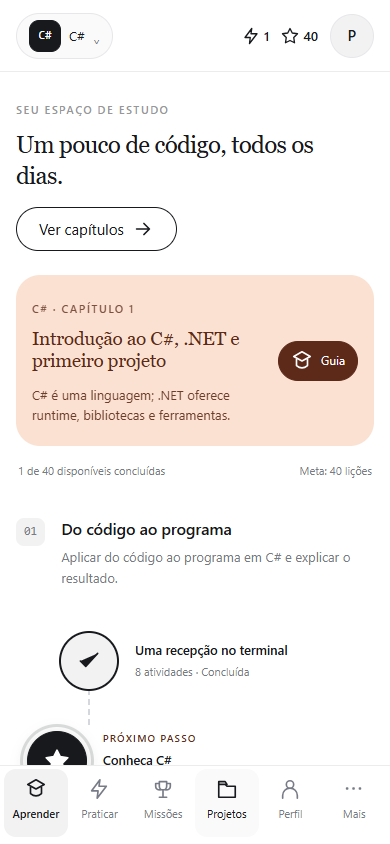
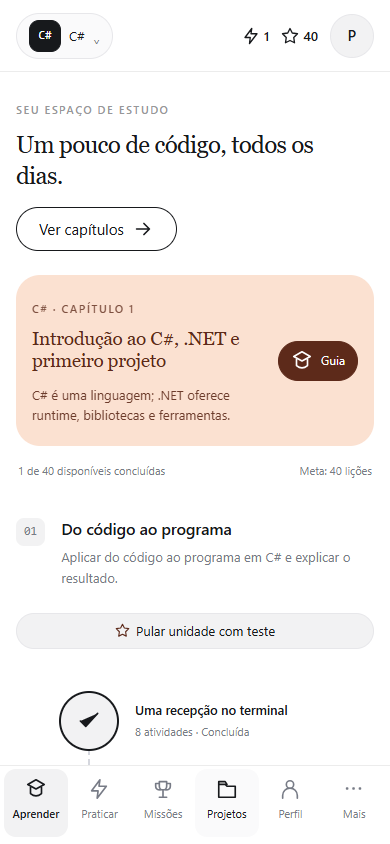
feat(learning): teste de nivelamento para pular unidades e avancar na trilha

Changed region(s): [[0.0308, 0.7393, 0.7385, 0.9242]]

diff --git a/app.js b/app.js
@@ -40,7 +40,7 @@ function progress(value,max,label){return `<div class="progress-track" role="pro
 function header(){const l=language();$('#course-switch').innerHTML=tag(l)+esc(l.name)+' <span class="muted">⌄</span>';$('#stats').innerHTML=`<span class="streak">${icon('practice')} ${streak()}<small>dias</small></span><span class="xp">${icon('star')} ${state.completed.length*20}<small>XP</small></span>`;$('#account-button').textContent=(user?.name||'Você').slice(0,1).toUpperCase();storageLabel();}
 function page(content){$('#main').innerHTML=`<div class="page">${content}</div>`;}
 function render(){if(!ready)return;const route=location.hash.slice(1)||'aprender';const isLesson=route.startsWith('aula/');document.body.classList.toggle('in-lesson',isLesson);document.querySelectorAll('[data-nav]').forEach(el=>{const active=el.dataset.nav===route||el.dataset.nav==='aprender'&&(isLesson||route==='capitulos');el.classList.toggle('active',active);if(active)el.setAttribute('aria-current','page');else el.removeAttribute('aria-current');});header();if(isLesson){openLesson(route);return;}session=null;({aprender:renderLearn,capitulos:renderChapters,linguagens:renderLanguages,praticar:renderPractice,missoes:renderMissions,projetos:renderProjects,perfil:renderProfile,mais:renderMore}[route]||renderLearn)();$('#main').removeAttribute('aria-busy');}
-function renderLearn(){const c=chapter(),completed=c.lessons.filter(l=>done(l.id)).length,next=c.lessons.find(l=>!done(l.id)&&unlocked(l));page(`<div class="page-heading"><div><span class="eyebrow">SEU ESPAÇO DE ESTUDO</span><h1>Um pouco de código, todos os dias.</h1></div><a class="button subtle" href="#capitulos">Ver capítulos ${icon('arrow')}</a></div><div class="learning-layout"><section class="trail"><div class="chapter-banner"><div><span class="eyebrow">${esc(language().name)} · CAPÍTULO ${chapters().indexOf(c)+1}</span><h2>${esc(c.title)}</h2><p>${esc(c.description)}</p></div><button class="guide-button" data-guide aria-label="Abrir guia deste capítulo">${icon('learn')} Guia</button></div><div class="trail-meta"><span>${completed} de ${c.lessons.length} disponíveis concluídas</span><span>Meta: 40 lições</span></div>${c.units.map((u,i)=>`<section class="unit" aria-labelledby="unit-${i}"><div class="unit-heading"><span>0${i+1}</span><div><h3 id="unit-${i}">${esc(u.title)}</h3><p>${esc(u.objective)}</p></div></div>${u.lessons.length?`<div class="lesson-path">${u.lessons.map((l,j)=>{const available=unlocked(l),current=next?.id===l.id;return `<div class="lesson-node-row offset-${j%4}">${available?`<a href="${lessonURL(l.id)}" class="lesson-node ${done(l.id)?'done':current?'current':''}" aria-label="${esc(l.title)} — ${done(l.id)?'Revisar':'Começar'}">${icon(done(l.id)?'check':'star')}</a>`:`<button class="lesson-node" disabled aria-label="${esc(l.title)}. Conclua a lição anterior.">${icon('lock')}</button>`}<div>${current?'<span class="now">PRÓXIMO PASSO</span>':''}<h4>${esc(l.title)}</h4><p>${l.questions.length} atividades · ${done(l.id)?'Concluída':'20 XP'}</p></div></div>`;}).join('')}</div>`:'<p class="draft-unit">Conteúdo em preparação · 5 lições previstas</p>'}</section>`).join('')}</section>${rail()}</div>`);}
+function renderLearn(){const c=chapter(),completed=c.lessons.filter(l=>done(l.id)).length,next=c.lessons.find(l=>!done(l.id)&&unlocked(l));page(`<div class="page-heading"><div><span class="eyebrow">SEU ESPAÇO DE ESTUDO</span><h1>Um pouco de código, todos os dias.</h1></div><a class="button subtle" href="#capitulos">Ver capítulos ${icon('arrow')}</a></div><div class="learning-layout"><section class="trail"><div class="chapter-banner"><div><span class="eyebrow">${esc(language().name)} · CAPÍTULO ${chapters().indexOf(c)+1}</span><h2>${esc(c.title)}</h2><p>${esc(c.description)}</p></div><button class="guide-button" data-guide aria-label="Abrir guia deste capítulo">${icon('learn')} Guia</button></div><div class="trail-meta"><span>${completed} de ${c.lessons.length} disponíveis concluídas</span><span>Meta: 40 lições</span></div>${c.units.map((u,i)=>{const unitDone=u.lessons.length&&u.lessons.every(l=>done(l.id));return `<section class="unit" aria-labelledby="unit-${i}"><div class="unit-heading"><span>0${i+1}</span><div><h3 id="unit-${i}">${esc(u.title)}</h3><p>${esc(u.objective)}</p></div>${!unitDone&&u.lessons.length?`<button class="unit-skip-btn" data-skip-unit="${i}">${icon('star')} ${i===0?'Pular unidade com teste':'Pular até aqui com teste'}</button>`:''}</div>${u.lessons.length?`<div class="lesson-path">${u.lessons.map((l,j)=>{const available=unlocked(l),current=next?.id===l.id;return `<div class="lesson-node-row offset-${j%4}">${available?`<a href="${lessonURL(l.id)}" class="lesson-node ${done(l.id)?'done':current?'current':''}" aria-label="${esc(l.title)} — ${done(l.id)?'Revisar':'Começar'}">${icon(done(l.id)?'check':'star')}</a>`:`<button class="lesson-node" disabled aria-label="${esc(l.title)}. Conclua a lição anterior.">${icon('lock')}</button>`}<div>${current?'<span class="now">PRÓXIMO PASSO</span>':''}<h4>${esc(l.title)}</h4><p>${l.questions.length} atividades · ${done(l.id)?'Concluída':'20 XP'}</p></div></div>`;}).join('')}</div>`:'<p class="draft-unit">Conteúdo em preparação · 5 lições previstas</p>'}</section>`;}).join('')}</section>${rail()}</div>`);}
 function rail(){const seconds=state.studySeconds[dateKey()]||0;return `<aside class="right-rail"><div class="bit-note">${bit('encourage')}<p>Leia o exemplo, teste sua ideia e veja o que acontece.</p><span>BIT · SEU COMPANHEIRO</span></div><section class="panel"><div class="section-title"><h2>Seu ritmo hoje</h2><a href="#perfil">Editar</a></div><p><strong class="big-number">${Math.floor(seconds/60)}</strong> / ${state.dailyMinutes} minutos</p>${progress(seconds,state.dailyMinutes*60,'Meta de tempo ativo')}<p class="muted">O tempo conta enquanto você estuda em uma aula ativa.</p><div class="week">${Array.from({length:7},(_,i)=>{const d=new Date();d.setDate(d.getDate()-6+i);return `<span class="${state.studyDays.includes(dateKey(d))?'studied':''}">${['D','S','T','Q','Q','S','S'][d.getDay()]}<b>${state.studyDays.includes(dateKey(d))?'✓':'·'}</b></span>`;}).join('')}</div></section><section class="panel"><span class="eyebrow">MISSÃO DO DIA</span><h2>Aprenda um conceito novo</h2><p>Conclua uma lição para ganhar 20 XP.</p>${progress(state.activity[dateKey()]||0,20,'Missão diária')}<a class="text-link" href="#missoes">Ver missões ${icon('arrow')}</a></section>${!user?'<section class="panel"><h2>Guarde seu progresso</h2><p>Crie uma conta neste servidor para continuar de onde parou.</p><button class="button primary" data-account="register">Criar conta</button><button class="text-button" data-account="login">Já tenho uma conta</button></section>':''}</aside>`;}
 function renderChapters(){page(`<div class="page-heading"><div><span class="eyebrow">${esc(language().name)} · MAPA DO CURSO</span><h1>Escolha um capítulo</h1><p class="muted">O currículo está em expansão. Cada capítulo terá oito unidades e 40 lições.</p></div></div><div class="chapter-catalog">${chapters().map((c,i)=>{const n=c.lessons.filter(l=>done(l.id)).length;return `<article class="chapter-card"><span class="chapter-number">${String(i+1).padStart(2,'0')}</span><div><h2>${esc(c.title)}</h2><p>${esc(c.description)}</p><p class="muted">Pré-requisito sugerido: ${i?esc(chapters()[i-1].title):'nenhum'}</p><div class="chapter-status"><span>${c.lessons.length} lições disponíveis de 40 previstas</span><span>${n} concluídas</span></div>${progress(n,40,'Progresso do capítulo')}<button class="button ${c.lessons.length?'primary':'subtle'}" data-chapter="${c.id}">${c.lessons.length?'Explorar capítulo':'Ver temas planejados'} ${icon('arrow')}</button></div></article>`;}).join('')}</div>`);}
 function renderLanguages(){page(`<span class="eyebrow">O QUE VOCÊ QUER CONSTRUIR?</span><h1>Escolha sua linguagem</h1><p class="intro">Cada trilha tem seu próprio progresso. Você pode trocar quando quiser.</p><div class="language-grid">${LANGUAGES.map(l=>{const cs=courseChapters(l);return `<button class="course-card ${state.language===l.id?'selected':''}" data-language="${l.id}" aria-pressed="${state.language===l.id}">${tag(l)}<h2>${esc(l.name)}</h2><p>${esc(l.description)}</p><small>${esc(l.family)}</small><div>${cs.length} capítulos · ${cs.flatMap(c=>c.lessons).length} lições disponíveis</div><span class="text-link">${state.language===l.id?'Trilha atual':'Escolher trilha'} ${icon('arrow')}</span></button>`;}).join('')}</div>`);}
@@ -52,8 +52,9 @@ function goalFields(){return `<fieldset><legend>Quanto tempo você quer estudar 
 function renderProfile(){page(`<span class="eyebrow">SEU ESPAÇO</span><h1>${user?esc(user.name):'Seu perfil de estudo'}</h1><p class="intro">${user?'Conta: '+esc(user.email):'Você está estudando como visitante. Crie uma conta para transferir seu progresso.'}</p><form id="profile-form" class="profile-form">${user?`<label class="field">Nome<input name="name" value="${esc(user.name)}" minlength="2" maxlength="80" required autocomplete="name"></label>`:''}${goalFields()}<p class="form-error" role="alert"></p><button class="button primary" type="submit">Salvar preferências</button></form><div class="profile-actions">${user?'<button class="button subtle" data-logout>Sair da conta</button>':'<button class="button primary" data-account="register">Criar conta e transferir progresso</button><button class="button subtle" data-account="login">Entrar</button>'}<button class="text-button" data-sync>Salvar novamente</button></div>`);}
 function renderMore(){page(`<span class="eyebrow">MAIS NO LINCODE</span><h1>Explore seu espaço</h1><div class="link-list"><a href="#linguagens">${icon('code')} Trocar linguagem ${icon('arrow')}</a><a href="#capitulos">${icon('learn')} Catálogo de capítulos ${icon('arrow')}</a><a href="docs/CURRICULO.md" target="_blank" rel="noopener">${icon('projects')} Documentação do currículo ↗</a><a href="docs/VALIDACAO.md" target="_blank" rel="noopener">${icon('check')} Estado de validação ↗</a></div><section class="panel"><h2>Sobre este ambiente</h2><p>As respostas de código são comparadas com um gabarito; nenhum código digitado é executado. As contas e o progresso ficam no Lincode. O currículo ainda está em expansão.</p></section>`);}
 function showAccount(mode='register'){const onboard=mode==='welcome';$('#account-content').innerHTML=`<button class="close" data-close-account aria-label="Fechar">×</button>${bit('encourage')}<span class="eyebrow">${onboard?'VAMOS COMEÇAR':mode==='login'?'BOM TER VOCÊ DE VOLTA':'SEU PROGRESSO, GUARDADO'}</span><h2 id="account-title">${onboard?'Qual é o seu ritmo?':mode==='login'?'Entre na sua conta':'Crie sua conta'}</h2><form id="account-form" data-mode="${mode}">${mode==='register'?'<label class="field">Nome<input name="name" required minlength="2" maxlength="80" autocomplete="name"></label>':''}${!onboard?'<label class="field">E-mail<input name="email" type="email" required maxlength="254" autocomplete="email"></label><label class="field">Senha<input name="password" type="password" required minlength="8" maxlength="128" autocomplete="'+(mode==='login'?'current-password':'new-password')+'"><small>Use pelo menos 8 caracteres.</small></label>':''}${mode!=='login'?goalFields():''}<p class="form-error" role="alert"></p><button class="button primary" type="submit">${onboard?'Começar como visitante':mode==='login'?'Entrar':'Criar conta e salvar progresso'}</button></form><button class="text-button" data-account="${mode==='login'?'register':'login'}">${mode==='login'?'Criar uma conta':'Já tenho uma conta'}</button>${!onboard?'<button class="text-button" data-close-account>Continuar como visitante</button>':''}`;if(!$('#account-dialog').open)$('#account-dialog').showModal();}
-function openLesson(route){const [,lang,idEncoded]=route.split('/');let id;try{id=decodeURIComponent(idEncoded||'');}catch{id='';}if(!core.languages.includes(lang)){page('<div class="empty"><h1>Trilha não encontrada</h1><a href="#aprender">Voltar</a></div>');return;}if(state.language!==lang){state.language=lang;save();header();}const lesson=allLessons().find(l=>l.id===id);if(!lesson||!unlocked(lesson)){page('<div class="empty"><h1>Esta aula não está disponível</h1><p>Confira a trilha e conclua a lição anterior.</p><a class="button primary" href="#aprender">Voltar à trilha</a></div>');return;}if(session?.lesson.id!==id||session.lang!==lang){const saved=state.resumes[lang],valid=saved?.id===id&&Number.isInteger(saved.index)&&saved.index>=-1&&saved.index<lesson.questions.length;session={lesson,lang,index:valid?saved.index:-1,answer:valid?saved.answer:null,checked:valid?saved.checked===true:false,errors:valid?saved.errors||0:0,finished:false,reward:0};}renderLesson();}
-function remember(){if(session&&!session.finished){state.resumes[session.lang]={id:session.lesson.id,index:session.index,answer:session.answer,checked:session.checked,errors:session.errors};save();}}
+function startSkipTest(unitIndex){const c=chapter(),u=c.units[unitIndex];if(!u||!u.lessons.length)return;const targetUnits=c.units.slice(0,unitIndex+1),targetLessons=targetUnits.flatMap(un=>un.lessons).filter(l=>!done(l.id));if(!targetLessons.length)return;sessionStorage.setItem('lincode.trail.scroll',String(scrollY));const questions=u.lessons.map(l=>l.questions[0]);session={isTest:true,unitIndex,unitTitle:u.title,targetLessons,lesson:{id:`teste-unidade-${c.id}-${unitIndex}`,title:`Teste de Nível · Unidade 0${unitIndex+1}`,theory:`Você está realizando o teste de nivelamento da Unidade 0${unitIndex+1}: ${u.title}.\n\nAcerte pelo menos 80% das perguntas para demonstrar seu domínio e liberar as lições até esta etapa imediatamente.`,questions},lang:state.language,index:-1,answer:null,checked:false,errors:0,finished:false,reward:0};location.hash='aula/'+state.language+'/'+session.lesson.id;renderLesson();$('#main').focus();}
+function openLesson(route){const [,lang,idEncoded]=route.split('/');let id;try{id=decodeURIComponent(idEncoded||'');}catch{id='';}if(!core.languages.includes(lang)){page('<div class="empty"><h1>Trilha não encontrada</h1><a href="#aprender">Voltar</a></div>');return;}if(state.language!==lang){state.language=lang;save();header();}if(session?.isTest&&session.lesson.id===id){renderLesson();return;}const lesson=allLessons().find(l=>l.id===id);if(!lesson||!unlocked(lesson)){page('<div class="empty"><h1>Esta aula não está disponível</h1><p>Confira a trilha e conclua a lição anterior.</p><a class="button primary" href="#aprender">Voltar à trilha</a></div>');return;}if(session?.lesson.id!==id||session.lang!==lang){const saved=state.resumes[lang],valid=saved?.id===id&&Number.isInteger(saved.index)&&saved.index>=-1&&saved.index<lesson.questions.length;session={lesson,lang,index:valid?saved.index:-1,answer:valid?saved.answer:null,checked:valid?saved.checked===true:false,errors:valid?saved.errors||0:0,finished:false,reward:0};}renderLesson();}
+function remember(){if(session&&!session.finished&&!session.isTest){state.resumes[session.lang]={id:session.lesson.id,index:session.index,answer:session.answer,checked:session.checked,errors:session.errors};save();}}
 function flow(diagram){
 const d=diagram||{input:'Ler idade',condition:'idade ≥ 18?',yes:'Maior de idade',no:'Menor de idade'};
 if(d.kind==='loop')return '<figure class="flow-board"><figcaption>Fluxograma com repetição</figcaption><div class="flow-terminal">Início</div><span>↓</span><div class="flow-process">'+esc(d.initial)+'</div><span>↓</span><div class="flow-decision">'+esc(d.condition)+'</div><div class="flow-branches"><div><b>Sim ↓</b><span>'+esc(d.body)+'</span><span>'+esc(d.update)+'</span><b>↶ Voltar à condição</b></div><div><b>Não ↓</b><span>'+esc(d.after)+'</span><div class="flow-terminal">Fim</div></div></div></figure>';
@@ -65,17 +66,17 @@ if(q.type==='pairs'){const answers=Array.isArray(s.answer)?s.answer:[];return `<
 return `<div class="answers">${q.options.map((v,i)=>`<button class="answer ${s.answer===i?'chosen':''}" data-answer="${i}" aria-pressed="${s.answer===i}" ${s.checked?'disabled':''}><span class="answer-key">${i+1}</span>${esc(v)}</button>`).join('')}</div>`;}
 function answerReady(q){const a=session.answer;if(q.type==='order')return Array.isArray(a)&&a.length===q.options.length;if(q.type==='pairs')return Array.isArray(a)&&Array.from({length:q.pairs.length},(_,i)=>a[i]).every(Number.isInteger);if(q.type==='choice')return Number.isInteger(a);return typeof a==='string'&&!!a.trim();}
 function renderLesson(){const s=session,q=s.lesson.questions[s.index],n=s.lesson.questions.length,correct=q&&core.correct(q,s.answer);const count=s.finished?n:Math.max(s.index,0);let body,action;
-if(s.finished){body=`<div class="lesson-summary">${bit('celebrate')}<span class="eyebrow">MAIS UM PASSO CONCLUÍDO</span><h1>Lição concluída!</h1><p>${esc(s.lesson.title)}</p><div class="result-stats"><div><strong>+${s.reward}</strong><span>XP ${s.reward?'conquistados':'· revisão'}</span></div><div><strong>${Math.round(n/(n+s.errors)*100)}%</strong><span>acertos por tentativa</span></div></div><p>${s.reward?'Seu progresso foi salvo.':'Você já concluiu esta aula. A revisão mantém seu XP.'}</p></div>`;action='<button class="button primary" data-back-trail>Voltar à trilha</button>';}
-else if(s.index===-1){body=`<span class="eyebrow">${esc(language().name)} · ANTES DE PRATICAR</span><h1>${esc(s.lesson.title)}</h1><div class="lesson-intro">${bit('explain')}<p>${esc(s.lesson.theory)}</p></div><p class="muted">${n} atividades · tentativas sem limite · respostas sem execução de código</p>`;action='<button class="button primary" data-start>Vamos praticar '+icon('arrow')+'</button>';}
-else{body=`<span class="eyebrow">${({choice:'ESCOLHA UMA RESPOSTA',text:'ESCREVA SUA RESPOSTA',gap:'COMPLETE O CÓDIGO',order:'ORGANIZE OS PASSOS',pairs:'COMBINE OS PARES'})[q.type]}</span><h1>${esc(q.prompt)}</h1>${q.code?`<pre class="code"><code>${esc(q.code)}</code></pre>`:''}${q.flow||q.diagram?flow(q.diagram):''}${answerBoard(q)}${s.checked?`<div class="feedback ${correct?'correct':'incorrect'}" role="status">${bit(correct?'encourage':'doubt')}<div><strong>${correct?'Isso mesmo!':'Vamos tentar de novo.'}</strong><p>${esc(q.explanation)}</p></div></div>`:''}`;action=`<button class="button primary" data-check ${!s.checked&&!answerReady(q)?'disabled':''}>${s.checked?(correct?'Continuar':'Tentar de novo'):'Verificar'}</button>`;}
-$('#main').innerHTML=`<div class="lesson-screen"><div class="lesson-top"><button class="close" data-back-trail aria-label="Sair da aula e salvar posição">×</button>${progress(count,n,'Progresso da lição')}<span>${count} / ${n}</span></div><section class="lesson-body">${body}</section><div class="lesson-footer"><span class="muted">${s.finished?'Você pode revisar quando quiser.':'Leia com calma. Seu progresso é salvo a cada etapa.'}</span>${action}</div></div>`;$('#main').removeAttribute('aria-busy');}
-function leaveLesson(){remember();const c=session&&chapters().find(ch=>ch.lessons.includes(session.lesson));if(c)state.chapters[state.language]=c.id;save();location.hash='aprender';requestAnimationFrame(()=>{const y=Number(sessionStorage.getItem('lincode.trail.scroll')||0);window.scrollTo(0,y);});}
-function check(){const s=session,q=s.lesson.questions[s.index];if(!s.checked){if(!answerReady(q))return;s.checked=true;if(!core.correct(q,s.answer))s.errors++;}else if(!core.correct(q,s.answer)){s.checked=false;s.answer=null;}else if(s.index+1<s.lesson.questions.length){s.index++;s.answer=null;s.checked=false;}else{state=core.merge(readLocal(storageKey()),state);s.reward=core.finish(state,s.lang,s.lesson.id,dateKey());s.finished=true;delete state.resumes[s.lang];save();header();}remember();renderLesson();$('#main').focus();}
+if(s.finished){if(s.isTest){const total=n,corr=total-s.errors,pct=Math.round(corr/total*100);body=`<div class="lesson-summary">${bit(s.passed?'celebrate':'doubt')}<span class="eyebrow">${s.passed?'NÍVEL COMPROVADO · PARABÉNS':'TESTE NÃO CONCLUÍDO'}</span><h1>${s.passed?'Teste de nível aprovado!':'Quase lá!'}</h1><p>${s.passed?`Você acertou ${corr} de ${total} (${pct}%) e pulou ${s.targetLessons.length} aulas com sucesso.`:`Você acertou ${corr} de ${total} (${pct}%). É necessário acertar pelo menos 80% para pular.`}</p><div class="result-stats"><div><strong>${s.passed?`+${s.reward}`:0}</strong><span>XP conquistados</span></div><div><strong>${pct}%</strong><span>de acerto</span></div></div><p>${s.passed?'Seu progresso foi atualizado e as próximas aulas já estão liberadas na trilha.':'Recomendamos praticar os passos na trilha para consolidar a base.'}</p></div>`;action=`<button class="button primary" data-back-trail>${s.passed?'Avançar na trilha':'Voltar à trilha'}</button>`;}else{body=`<div class="lesson-summary">${bit('celebrate')}<span class="eyebrow">MAIS UM PASSO CONCLUÍDO</span><h1>Lição concluída!</h1><p>${esc(s.lesson.title)}</p><div class="result-stats"><div><strong>+${s.reward}</strong><span>XP ${s.reward?'conquistados':'· revisão'}</span></div><div><strong>${Math.round(n/(n+s.errors)*100)}%</strong><span>acertos por tentativa</span></div></div><p>${s.reward?'Seu progresso foi salvo.':'Você já concluiu esta aula. A revisão mantém seu XP.'}</p></div>`;action='<button class="button primary" data-back-trail>Voltar à trilha</button>';}}
+else if(s.index===-1){body=`<span class="eyebrow">${esc(language().name)} · ${s.isTest?'TESTE DE NIVELAMENTO':'ANTES DE PRATICAR'}</span><h1>${esc(s.lesson.title)}</h1><div class="lesson-intro">${bit('explain')}<p>${esc(s.lesson.theory)}</p></div><p class="muted">${n} atividades · ${s.isTest?'mínimo de 80% de acerto para pular':'tentativas sem limite'} · respostas sem execução de código</p>`;action=`<button class="button primary" data-start>${s.isTest?'Iniciar teste':'Vamos praticar'} ${icon('arrow')}</button>`;}
+else{body=`<span class="eyebrow">${({choice:'ESCOLHA UMA RESPOSTA',text:'ESCREVA SUA RESPOSTA',gap:'COMPLETE O CÓDIGO',order:'ORGANIZE OS PASSOS',pairs:'COMBINE OS PARES'})[q.type]}</span><h1>${esc(q.prompt)}</h1>${q.code?`<pre class="code"><code>${esc(q.code)}</code></pre>`:''}${q.flow||q.diagram?flow(q.diagram):''}${answerBoard(q)}${s.checked?`<div class="feedback ${correct?'correct':'incorrect'}" role="status">${bit(correct?'encourage':'doubt')}<div><strong>${correct?'Isso mesmo!':s.isTest?'Resposta incorreta.':'Vamos tentar de novo.'}</strong><p>${esc(q.explanation)}</p></div></div>`:''}`;action=`<button class="button primary" data-check ${!s.checked&&!answerReady(q)?'disabled':''}>${s.checked?(s.isTest?(s.index+1===n?'Ver resultado':'Próxima pergunta'):(correct?'Continuar':'Tentar de novo')):'Verificar'}</button>`;}
+$('#main').innerHTML=`<div class="lesson-screen"><div class="lesson-top"><button class="close" data-back-trail aria-label="Sair da aula e salvar posição">×</button>${progress(count,n,'Progresso da lição')}<span>${count} / ${n}</span></div><section class="lesson-body">${body}</section><div class="lesson-footer"><span class="muted">${s.finished?'Você pode revisar quando quiser.':s.isTest?'Teste de nivelamento para avançar na trilha.':'Leia com calma. Seu progresso é salvo a cada etapa.'}</span>${action}</div></div>`;$('#main').removeAttribute('aria-busy');}
+function leaveLesson(){if(session?.isTest){session=null;location.hash='aprender';requestAnimationFrame(()=>{const y=Number(sessionStorage.getItem('lincode.trail.scroll')||0);window.scrollTo(0,y);});return;}remember();const c=session&&chapters().find(ch=>ch.lessons.includes(session.lesson));if(c)state.chapters[state.language]=c.id;save();location.hash='aprender';requestAnimationFrame(()=>{const y=Number(sessionStorage.getItem('lincode.trail.scroll')||0);window.scrollTo(0,y);});}
+function check(){const s=session,q=s.lesson.questions[s.index];if(s.isTest){if(!s.checked){if(!answerReady(q))return;s.checked=true;if(!core.correct(q,s.answer))s.errors++;}else{if(s.index+1<s.lesson.questions.length){s.index++;s.answer=null;s.checked=false;}else{const total=s.lesson.questions.length,correct=total-s.errors;s.passed=(correct/total)>=0.8;s.finished=true;if(s.passed){let totalXP=0;for(const l of s.targetLessons){totalXP+=core.finish(state,s.lang,l.id,dateKey());}s.reward=totalXP;save();header();}}}renderLesson();$('#main').focus();return;}if(!s.checked){if(!answerReady(q))return;s.checked=true;if(!core.correct(q,s.answer))s.errors++;}else if(!core.correct(q,s.answer)){s.checked=false;s.answer=null;}else if(s.index+1<s.lesson.questions.length){s.index++;s.answer=null;s.checked=false;}else{state=core.merge(readLocal(storageKey()),state);s.reward=core.finish(state,s.lang,s.lesson.id,dateKey());s.finished=true;delete state.resumes[s.lang];save();header();}remember();renderLesson();$('#main').focus();}
 $('#course-switch').onclick=()=>{location.hash='linguagens';};$('#account-button').onclick=()=>{location.hash='perfil';};
 document.addEventListener('click',async e=>{if(!ready)return;lastInteraction=Date.now();const el=e.target.closest('button,a');if(!el)return;
 if(el.matches('[href^="#aula/"]')){sessionStorage.setItem('lincode.trail.scroll',String(scrollY));}
 if(el.dataset.language){state.language=el.dataset.language;save();location.hash='aprender';render();}
-if(el.dataset.chapter){state.chapters[state.language]=el.dataset.chapter;save();location.hash='aprender';render();window.scrollTo(0,0);}
+if(el.dataset.skipUnit!==undefined){startSkipTest(Number(el.dataset.skipUnit));return;}if(el.dataset.chapter){state.chapters[state.language]=el.dataset.chapter;save();location.hash='aprender';render();window.scrollTo(0,0);}
 if(el.hasAttribute('data-guide')){location.hash='capitulos';}
 if(el.dataset.account)showAccount(el.dataset.account);
 if(el.hasAttribute('data-close-account'))$('#account-dialog').close();

diff --git a/styles.css b/styles.css
@@ -545,6 +545,12 @@ main:focus { outline: 0; }
   display: flex;
   gap: 16px;
   align-items: flex-start;
+  justify-content: space-between;
+  flex-wrap: wrap;
+}
+.unit-heading > div {
+  flex: 1;
+  min-width: 200px;
 }
 .unit-heading > span {
   font-family: var(--font-mono);
@@ -565,6 +571,32 @@ main:focus { outline: 0; }
   font-size: 13px;
   margin-top: 6px;
   max-width: 480px;
+}
+.unit-skip-btn {
+  display: inline-flex;
+  align-items: center;
+  gap: 6px;
+  font-size: 13px;
+  font-weight: 480;
+  min-height: 36px;
+  padding: 0 16px;
+  border-radius: var(--radius-pill);
+  background: var(--surface-card-mist);
+  color: var(--color-ink-black);
+  border: 1px solid var(--color-border-hairline);
+  cursor: pointer;
+  transition: all 0.15s ease;
+  white-space: nowrap;
+}
+.unit-skip-btn:hover {
+  background: var(--surface-section-fog);
+  border-color: var(--color-ink-black);
+  transform: translateY(-1px);
+}
+.unit-skip-btn .icon {
+  width: 15px;
+  height: 15px;
+  color: var(--color-sienna-brown);
 }
 
 /* Trail Lessons Nodes */
@@ -1610,6 +1642,7 @@ dialog::backdrop {
   .lesson-path { gap: 20px; }
   .lesson-node-row:before { left: 29px; top: 68px; height: 36px; }
   .unit-heading h3 { font-size: 16px; }
+  .unit-skip-btn { width: 100%; justify-content: center; margin-top: 8px; }
   .draft-unit { font-size: 12px; }
 
   .language-grid { grid-template-columns: 1fr; }
